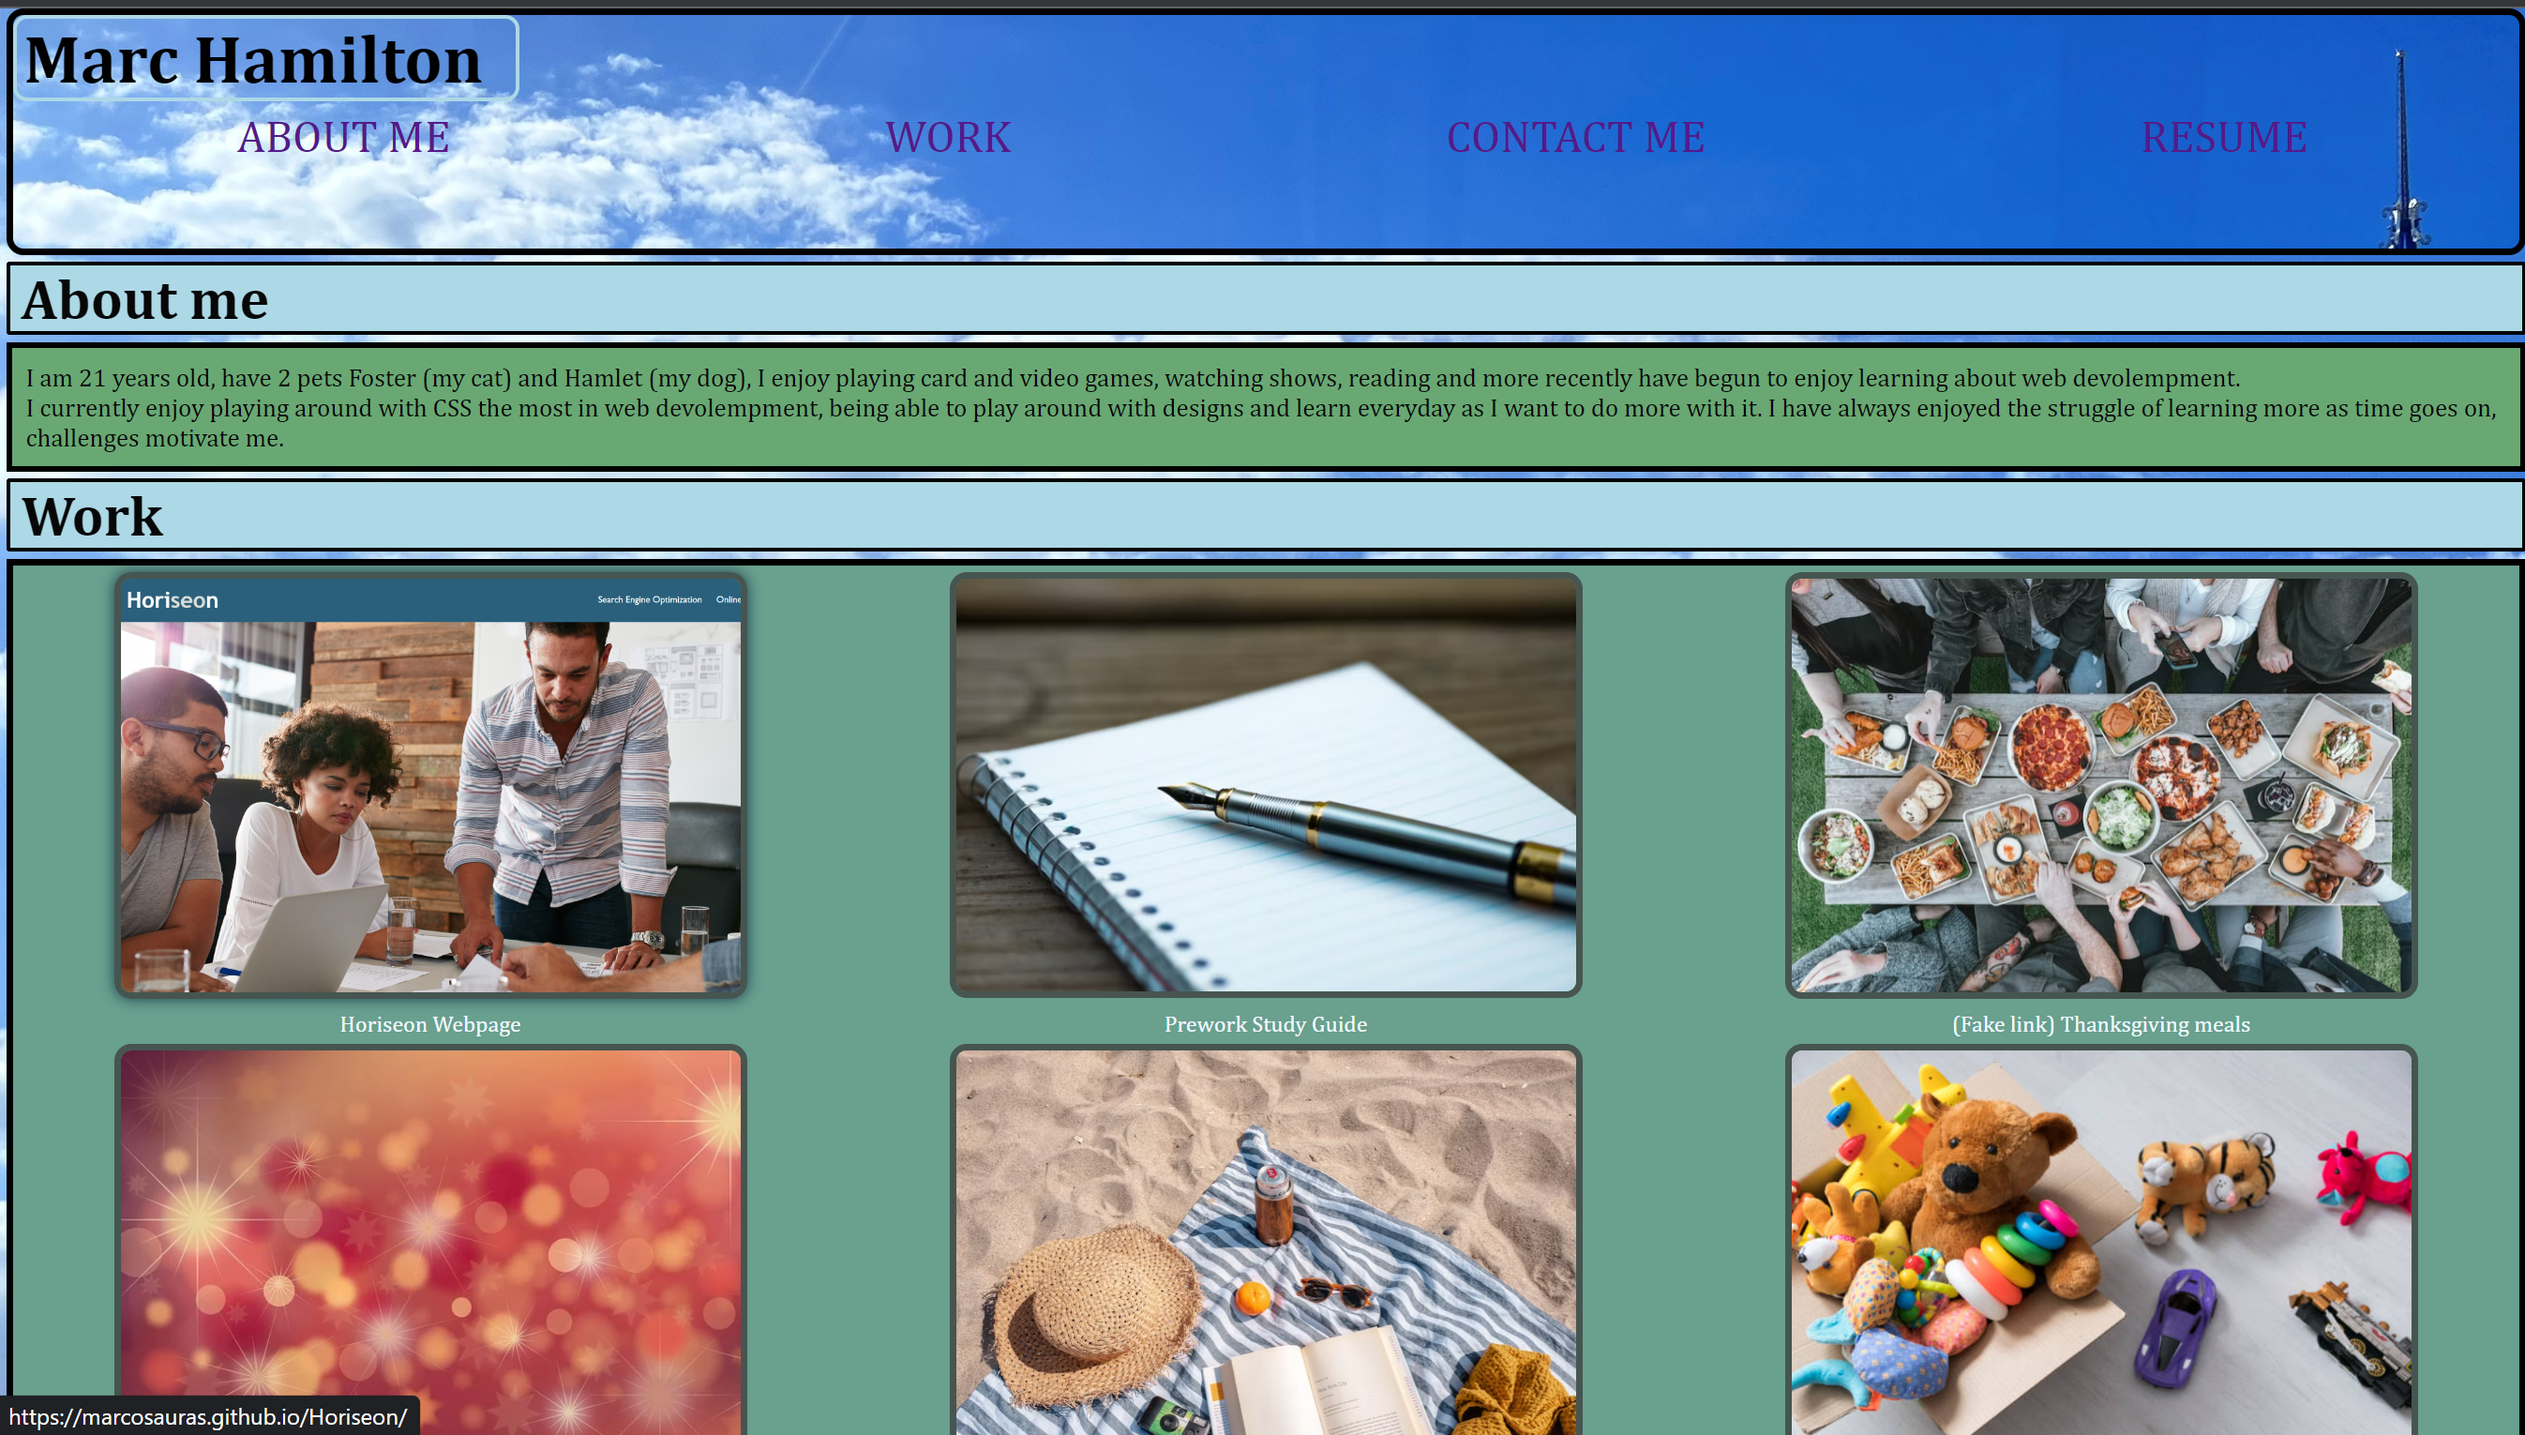
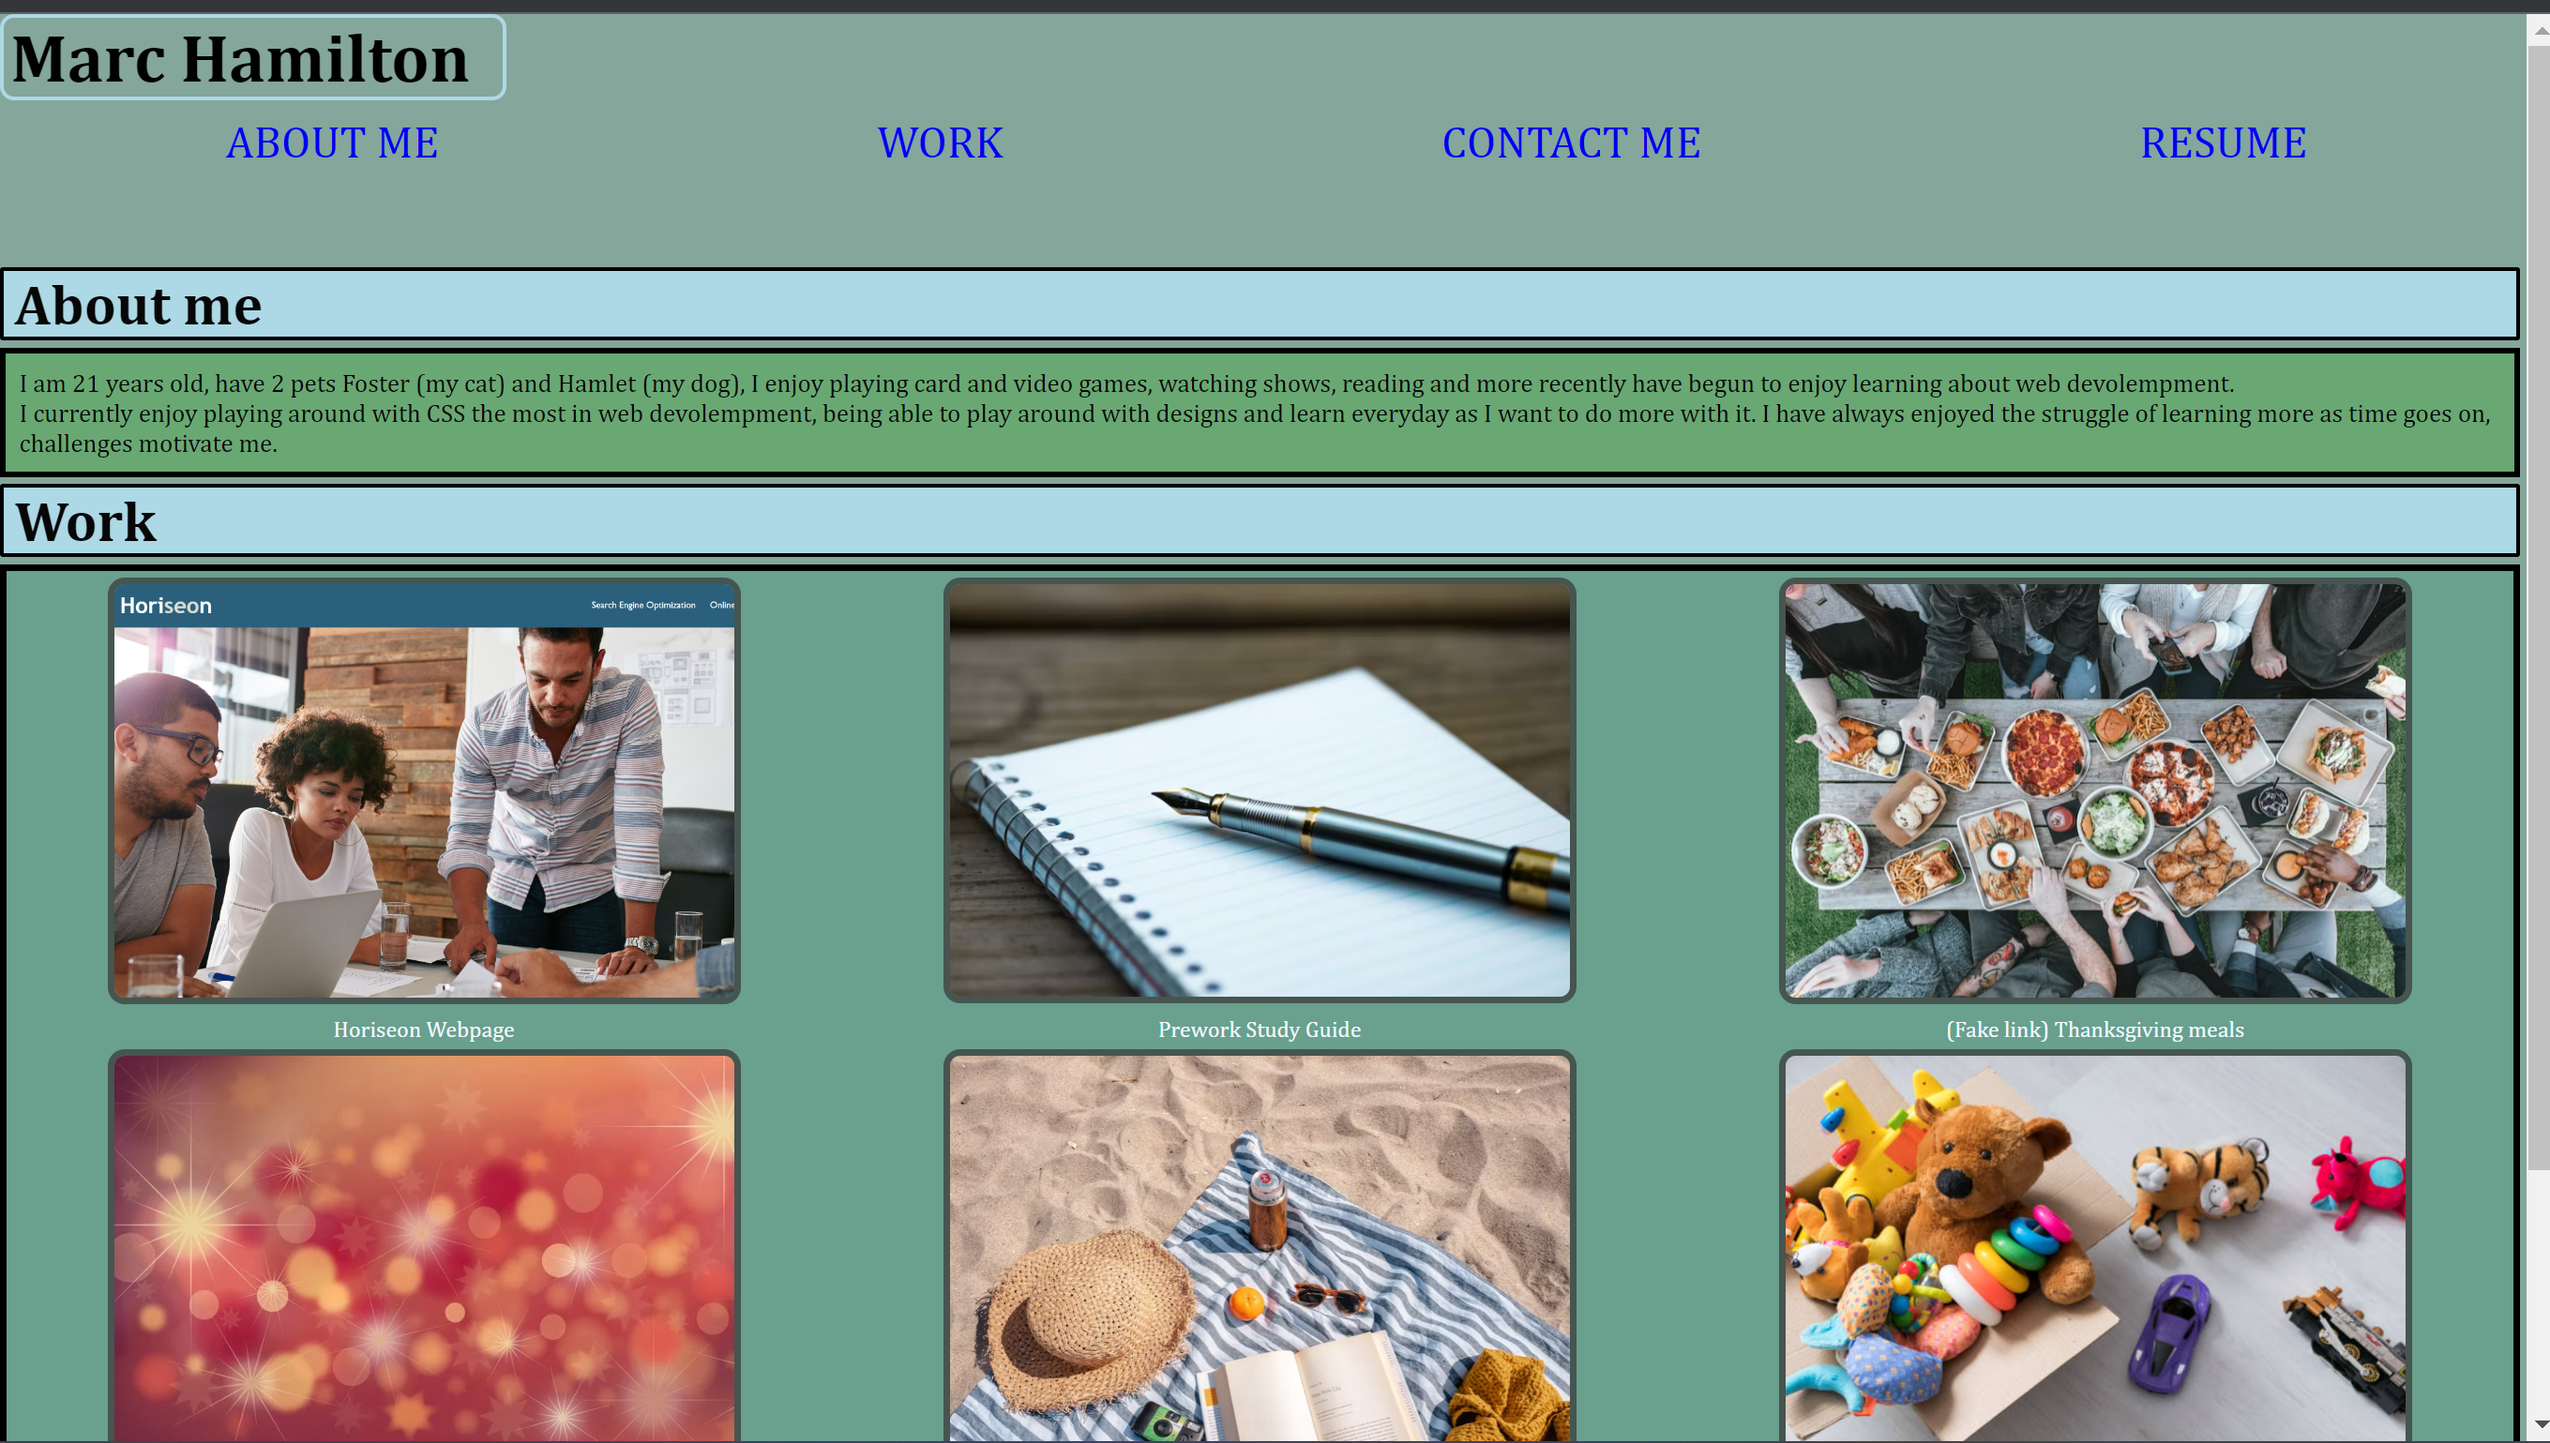
Edited CSS

diff --git a/assets/css/style.css b/assets/css/style.css
@@ -13,9 +13,7 @@
 
 html{
     scroll-behavior: smooth;
-}
-body{
-    background-image: url(/assets/images/Photo-of-Flordia.jpg);
+    background-color: #84a69b;
 }
 h1 {
     display: flex;
@@ -28,7 +26,6 @@ h1 {
 }
 /* setting the headers color and size */
 header { 
-    background-image: url(/assets/images/Photo-of-Flordia.jpg);
     background-size: 100%;
     background: no-repeat;
     min-height: 175px;
@@ -43,7 +40,9 @@ section {
 li a{
     display: flex;
     flex-wrap: wrap;
+    padding: 5px;
     text-decoration: none;
+    border-radius: var(--border-rad);
 }
 li a:hover{
     margin: 0px;
@@ -72,7 +71,6 @@ footer{
 }
 /* Controls the individual items in the navagation bar */
 .header-nav li{
-    /* display: inline-block; */
     padding-top: 5px;
     margin-left: 10px;
 }
@@ -100,7 +98,7 @@ footer{
     padding-left: 8px;
     padding-right: 8px;
     margin: 5px;
-    border: 3px solid var(--border-color);
+    border: 2px solid var(--border-color);
     align-items: center;
     font-size: 40px;
 }
@@ -111,7 +109,7 @@ footer{
     align-items: center;
     margin: 5px;
     padding: 10px;
-    border: 4px solid var(--border-color);
+    /* border: 4px solid var(--border-color); */
     font-size: 18px;
 }
 
@@ -120,7 +118,7 @@ footer{
     flex-wrap: wrap;
     justify-content: space-around;
     background-color: rgb(105, 160, 142);
-    border: 5px solid var(--border-color);
+    /* border: 5px solid var(--border-color); */
     margin: 5px;
     padding-bottom: 5px;
 }
